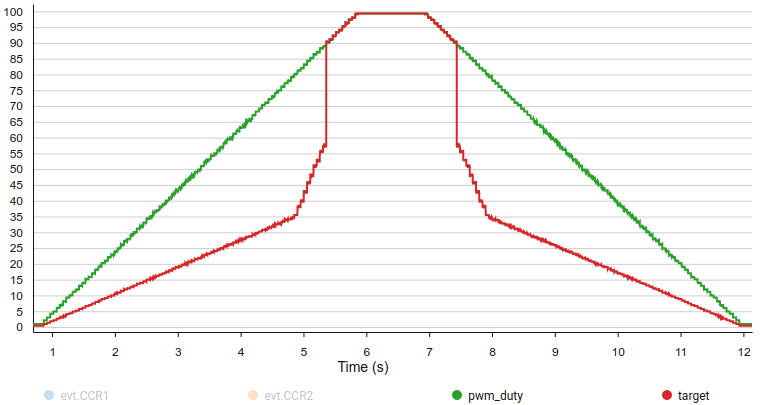
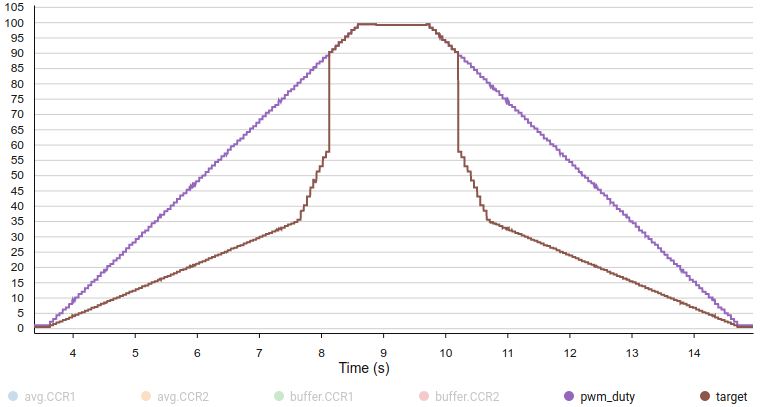
add: input filtering
- added input filter thread, that is responsible for actually receiving
  data (messages) from the CC IRQ
- the main thread now receives filtered data that is the average of the
  last _n_ messages

What I've essentially created is a rolling buffer, with one distinct
feature. If no messages are received in the configured lifespan, the
oldest messages are slowly removed from the queue & the sum/average is
also updated to reflect that.
This is to prevent cases where we stop receiving messages (stable or no
PWM) essentially leaving whatever the last _n_ messages were in the
buffer - as we want to reflect that the PWM has probably stabilized on
the last received value.

Hope everything makes sense, leave comments if it does not.

diff --git a/src/Core/Src/main.c b/src/Core/Src/main.c
@@ -34,8 +34,31 @@
 /* Private define ------------------------------------------------------------*/
 /* USER CODE BEGIN PD */
 
-/** Maximum number of messages/events stored in the TIM1 IRQ buffer */
-#define TIM1_IRQ_BUFFER_LENGTH 2
+/**
+ * Maximum number of messages that are pending from the TIM1 IRQ handler. This
+ * buffer is used to handle bursts of messages from the IRQ - ex. when the PWM
+ * signal is slowly changing.
+ */
+#define TIM1_IRQ_BUFFER_MAX_BACKLOG 4
+
+/**
+ * Maximum number of messages/events stored in the TIM1 IRQ buffer
+ * This value directly affects how much smoothing is applied to the input signal
+ * @note High values may lead to artifacts
+ */
+#define TIM1_IRQ_BUFFER_LENGTH 8
+
+/**
+ * Maximum lifespan of a buffer entry (in ms)
+ * Specifies the maximum amount of time an entry is going to be counted into
+ * the input average. After this time, the entry is guaranteed to be thrown
+ * out. This might also happen much sooner if the interval at which the entries
+ * are being added into the buffer is smaller than this value divided by the
+ * buffer's length.
+ * @note I recommend setting this value to be neatly divisible by the buffer's
+ * length, otherwise rounding will take place anyways
+ */
+#define TIM1_IRQ_BUFFER_LIFESPAN 400
 
 /**
  * This duty cycle is used on edge-cases where calculations fail or receive
@@ -59,10 +82,28 @@ osThreadId_t defaultTaskHandle;
 const osThreadAttr_t defaultTask_attributes = {
   .name = "defaultTask",
   .stack_size = 128 * 4,
+  .priority = (osPriority_t) osPriorityNormal1,
+};
+/* Definitions for inputFilter */
+osThreadId_t inputFilterHandle;
+const osThreadAttr_t inputFilter_attributes = {
+  .name = "inputFilter",
+  .stack_size = 128 * 4,
   .priority = (osPriority_t) osPriorityNormal,
 };
 /* USER CODE BEGIN PV */
-MessageBufferHandle_t tim1_irq_buffer = NULL;
+
+/**
+ * Message queue used to store reported CCR values from the TIM1_CC_IRQ handler
+ */
+MessageBufferHandle_t tim1_irq_backlog = NULL;
+/**
+ * A small buffer used to transfer the filtered signal from the input filter to
+ * the main thread.
+ */
+MessageBufferHandle_t tim1_filtered_buffer = NULL;
+
+
 /* USER CODE END PV */
 
 /* Private function prototypes -----------------------------------------------*/
@@ -71,6 +112,7 @@ static void MX_GPIO_Init(void);
 static void MX_TIM1_Init(void);
 static void MX_TIM2_Init(void);
 void StartDefaultTask(void *argument);
+void InputFilterTask(void *argument);
 
 /* USER CODE BEGIN PFP */
 
@@ -109,14 +151,16 @@ static void setDutyCycle(TIM_HandleTypeDef* const htim,
 int main(void)
 {
   /* USER CODE BEGIN 1 */
-  tim1_irq_buffer = xMessageBufferCreate(
-    TIM1_IRQ_BUFFER_LENGTH * (sizeof(RegCCR) + sizeof(size_t))
-  );
+  tim1_irq_backlog = xMessageBufferCreate(
+    TIM1_IRQ_BUFFER_MAX_BACKLOG * (sizeof(CCRPair) + sizeof(size_t)) );
+  tim1_filtered_buffer = xMessageBufferCreate(
+    (sizeof(CCRPair) + sizeof(size_t)) );
   /**
-   * Assert will fail if there isn't sufficient FreeRTOS heap available for the
-   * semaphore to be created successfully.
+   * Asserts will fail if there isn't sufficient FreeRTOS heap available for the
+   * buffers to be created successfully.
    */
-  assert_param(tim1_irq_buffer != NULL);
+  assert_param(tim1_irq_backlog != NULL);
+  assert_param(tim1_filtered_buffer != NULL);
   /* USER CODE END 1 */
 
   /* MCU Configuration--------------------------------------------------------*/
@@ -153,7 +197,7 @@ int main(void)
    * initialization
    * @note This is mostly useful while using GDB for debugging
    */
-  xMessageBufferReset(tim1_irq_buffer);
+  xMessageBufferReset(tim1_irq_backlog);
 
   /* USER CODE END 2 */
 
@@ -179,6 +223,9 @@ int main(void)
   /* Create the thread(s) */
   /* creation of defaultTask */
   defaultTaskHandle = osThreadNew(StartDefaultTask, NULL, &defaultTask_attributes);
+
+  /* creation of inputFilter */
+  inputFilterHandle = osThreadNew(InputFilterTask, NULL, &inputFilter_attributes);
 
   /* USER CODE BEGIN RTOS_THREADS */
   /* add threads, ... */
@@ -437,29 +484,29 @@ static void MX_GPIO_Init(void)
 void StartDefaultTask(void *argument)
 {
   /* USER CODE BEGIN 5 */
-	RegCCR evt = { 0, 0 };
+  CCRPair evt = { 0, 0 };
 
   /* Infinite loop */
   for(;;)
   {
-		/** If > 0, we've received a message and it was stored to `evt` */
-		size_t recv_ret = xMessageBufferReceive(tim1_irq_buffer, &evt,
-			sizeof(evt), portMAX_DELAY);
-		// Continue waiting if the specified timeout expired
-    /** @todo Decrease timeout & trigger failsafe if reached */
-		if (recv_ret == 0) {
-			continue;
-		}
+    /** If > 0, we've received a message and it was stored to `evt` */
+    size_t recv = xMessageBufferReceive(tim1_filtered_buffer,
+      &evt, sizeof(evt), portMAX_DELAY);
 
-		/** Calculated input PWM frequency */
-		uint32_t pwm_freq = HAL_RCC_GetSysClockFreq() / (TIM1->PSC + 1) / evt.CCR2;
-		/** Ignore bogus input frequencies (outside of the PWM spec) */
-		if (pwm_freq > 28000 || pwm_freq < 21000) {
-			continue;
-		}
+    if (recv == 0) {
+      // Continue waiting if the specified timeout expired
+      continue;
+    }
 
-		/** Calculated input PWM duty cycle as percentage */
-		float pwm_duty = (float) (evt.CCR2 - evt.CCR1) / (evt.CCR2 / 100.0f);
+    /** Calculated input PWM frequency */
+    uint32_t pwm_freq = HAL_RCC_GetSysClockFreq() / (TIM1->PSC + 1) / evt.CCR2;
+    /** Ignore bogus input frequencies (outside of the PWM spec) */
+    if (pwm_freq > 28000 || pwm_freq < 21000) {
+      continue;
+    }
+
+    /** Calculated input PWM duty cycle as percentage */
+    float pwm_duty = (evt.CCR2 - evt.CCR1) / (evt.CCR2 / 100.0f);
     // Invert the duty cycle, as it's polarity is reversed (low instead of high)
     pwm_duty = 100.0f - pwm_duty;
 
@@ -475,7 +522,7 @@ void StartDefaultTask(void *argument)
           (point.out_end - point.out_start) * (pwm_duty - point.in_start) /
             (point.in_end - point.in_start)
         );
-        
+
         setDutyCycle(&htim2, TIM_CHANNEL_1, target);
 
         break;
@@ -488,6 +535,86 @@ void StartDefaultTask(void *argument)
     }
   }
   /* USER CODE END 5 */
+}
+
+/* USER CODE BEGIN Header_InputFilterTask */
+/**
+* @brief Function implementing the inputFilter thread.
+* @param argument: Not used
+* @retval None
+*/
+/* USER CODE END Header_InputFilterTask */
+void InputFilterTask(void *argument)
+{
+  /* USER CODE BEGIN InputFilterTask */
+  CCRPair data[TIM1_IRQ_BUFFER_LENGTH] = {0};
+  CCRPair buffer = {0, 0};
+  CCRPair sum = {0, 0};
+
+  CCRPair* head_ptr = data;
+
+  size_t recv = 0;
+  size_t n_entries = 0;
+
+  /** Used to optimize CPU cycles when no action is required */
+  uint32_t cycle_ms = portMAX_DELAY;
+
+  /* Infinite loop */
+  for(;;)
+  {
+    // If > 0, we've received a message and it was stored to the buffer
+    recv = xMessageBufferReceive(tim1_irq_backlog, &buffer,
+      sizeof(CCRPair), cycle_ms);
+
+    if (!recv && n_entries <= 1) {
+      // Wait for a message indefinitely
+      cycle_ms = portMAX_DELAY;
+
+      continue;
+    } else {
+      cycle_ms = pdMS_TO_TICKS(
+        TIM1_IRQ_BUFFER_LIFESPAN / TIM1_IRQ_BUFFER_LENGTH );
+    }
+
+    // Remove the entry that is about to get overwritten from the sum
+    sum = (CCRPair) {
+      sum.CCR1 - head_ptr->CCR1,
+      sum.CCR2 - head_ptr->CCR2
+    };
+
+    if (!recv) {
+      // Clear the current entry if no message was received
+      *head_ptr = (CCRPair) {0, 0};
+      // Decrement the number of available entries
+      n_entries--;
+    } else {
+      // Append the new entry to the buffer & the rolling sum
+      *head_ptr = buffer;
+
+      sum = (CCRPair) {
+        sum.CCR1 + head_ptr->CCR1,
+        sum.CCR2 + head_ptr->CCR2
+      };
+
+      // Only increment the number of entries if the buffer isn't already full
+      if (n_entries < TIM1_IRQ_BUFFER_LENGTH) {
+        n_entries++;
+      }
+    }
+
+    // Push the head_ptr address forward & check for bounds
+    if (++head_ptr == &data[TIM1_IRQ_BUFFER_LENGTH]) {
+      head_ptr = data;
+    }
+
+    // Send new input value to the main task
+    CCRPair avg = {
+      sum.CCR1 / n_entries,
+      sum.CCR2 / n_entries
+    };
+    xMessageBufferSend(tim1_filtered_buffer, &avg, sizeof(CCRPair), 0);
+  }
+  /* USER CODE END InputFilterTask */
 }
 
 /**

diff --git a/src/Core/Src/stm32f1xx_it.c b/src/Core/Src/stm32f1xx_it.c
@@ -45,7 +45,7 @@
 /* USER CODE BEGIN PV */
 
 /** Stores the last known value of the TIM1 CCRx registers */
-RegCCR TIM1_last = { 0, 0 };
+CCRPair TIM1_last = { 0, 0 };
 
 /* USER CODE END PV */
 
@@ -66,7 +66,7 @@ extern TIM_HandleTypeDef htim4;
 /* USER CODE BEGIN EV */
 
 /** Buffer for TIM1 PWM input changes */
-extern MessageBufferHandle_t tim1_irq_buffer;
+extern MessageBufferHandle_t tim1_irq_backlog;
 
 /* USER CODE END EV */
 
@@ -183,13 +183,13 @@ void TIM1_CC_IRQHandler(void)
    * @note CCR2 value changes only in relation to the PWM signal's frequency
    */
   if (TIM1->CCR1 != TIM1_last.CCR1 || TIM1->CCR2 != TIM1_last.CCR2) {
-    TIM1_last = (RegCCR) {
+    TIM1_last = (CCRPair) {
       TIM1->CCR1,
       TIM1->CCR2
     };
 
-    xMessageBufferSendFromISR(tim1_irq_buffer, &TIM1_last,
-      sizeof(RegCCR), NULL);
+    xMessageBufferSendFromISR(tim1_irq_backlog, &TIM1_last,
+      sizeof(CCRPair), NULL);
   }
 
   /* USER CODE END TIM1_CC_IRQn 0 */

diff --git a/src/Core/Inc/main.h b/src/Core/Inc/main.h
@@ -42,7 +42,7 @@ extern "C" {
 typedef struct {
   __IO uint32_t CCR1;
   __IO uint32_t CCR2;
-} RegCCR;
+} CCRPair;
 
 /* USER CODE END ET */
 

diff --git a/README.md b/README.md
@@ -23,8 +23,20 @@ I personally don't think it needs or should be changed, but I guess there are us
 
 </div>
 
-The **green curve is the input**. I've just got another STM32 producing a PWM signal @25kHz, that linearly sweeps the duty cycle from 0 to 100%, waits, and then back. What you are seeing, it the actual value the board thinks is the input - which is why it is a bit noisy... I'm hoping to get rid of that with some smoothing algorithm (buffer) that I'm working on right now.  
-The **red curve is the target** PWM that is then generated by the STM32 to control the fans.
+The **green curve is the input**. I've just got another STM32 producing a PWM signal @25kHz, that linearly sweeps the duty cycle from 0 to 100%, waits, and then back.  
+The **red curve is the target** PWM. This is generated by the STM32 to control the fans.
+
+Both of these values on the graph are after being smoothed/filtered via a rolling average. This average is produced by taking the last *n* samples (8 by default), or max. of last *t* milliseconds of data (400ms by default). What this means is that no data older than 400ms is taken into account for the average, and a maximum of last 8 values are.  
+This technique gets rid of some of the signal uncertainty, but might not solve all of the issues that there are with scaling input values to different ranges - and also *maybe* introduces it's own artifacts, but none of those actually show up on my logic analyzer in a meaningful way, so it might just be issues with the STM32Monitor polling rate or whatever.
+
+Here are the values before any post processing is applied (on the left) and after (on the right).
+
+<div align="center">
+
+[![](.README/fan-curves/input-raw_small.png)](.README/fan-curves/input-raw.png)
+[![](.README/fan-curves/input-smoothing_small.png)](.README/fan-curves/input-smoothing.png)
+
+</div>
 
 Right now, you can manually configure the "fan curve" in [`curves.h`](src/Core/Src/curves.h).
 
